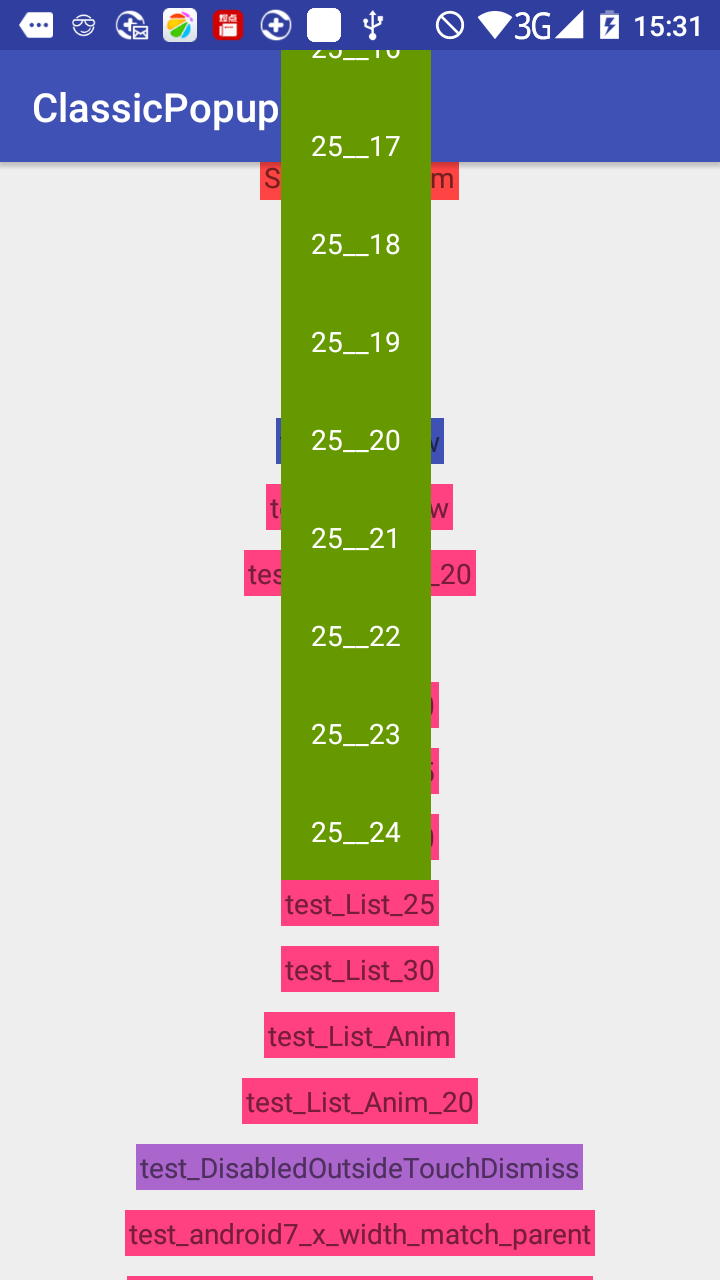
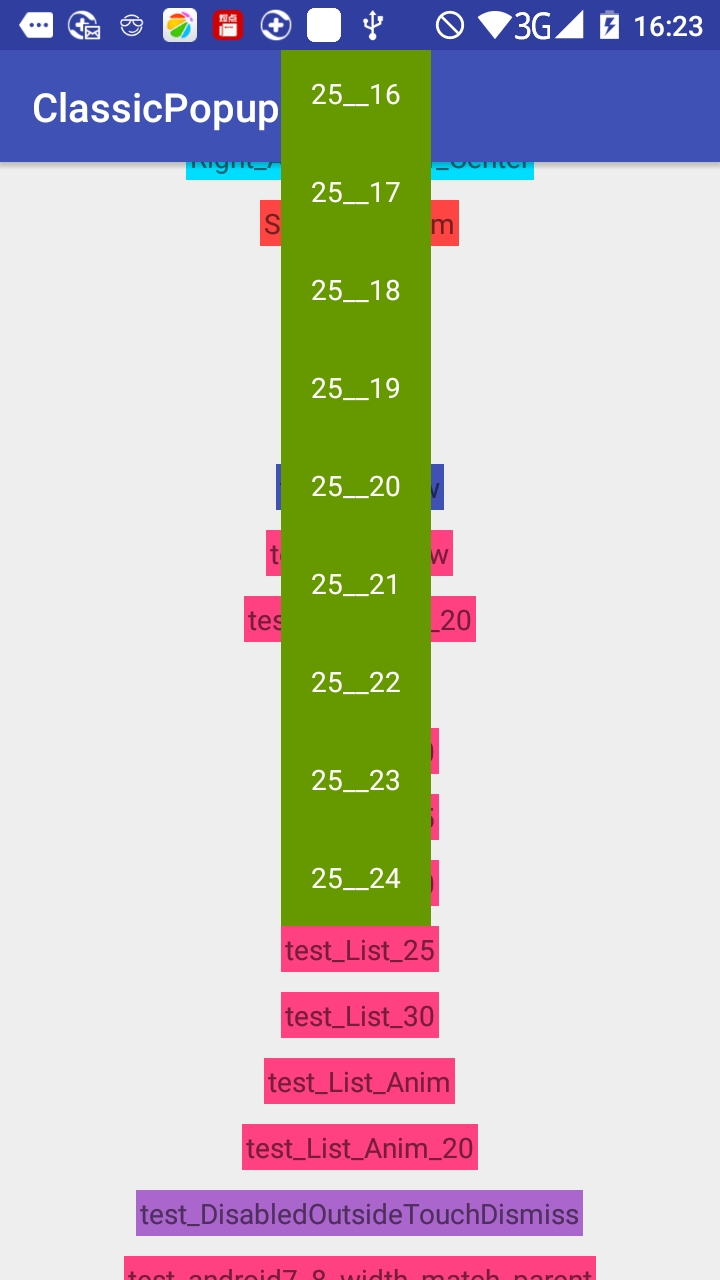
update

diff --git a/app/src/main/java/com/classichu/classicpopupwindow/MainActivity.java b/app/src/main/java/com/classichu/classicpopupwindow/MainActivity.java
@@ -99,19 +99,19 @@ public class MainActivity extends AppCompatActivity {
         TextView id_btn_List_View_Anim_20 = (TextView) findViewById(R.id.id_btn_List_View_Anim_20);
         TextView id_btn_DisabledOutsideTouchDismiss = (TextView) findViewById(R.id.id_btn_DisabledOutsideTouchDismiss);
 
-        TextView id_btn_android7_x_width_match_parent = (TextView) findViewById(R.id.id_btn_android7_x_width_match_parent);
-        TextView id_btn_android7_x_width_wrap_content = (TextView) findViewById(R.id.id_btn_android7_x_width_wrap_content);
-        TextView id_btn_android7_x_width_size = (TextView) findViewById(R.id.id_btn_android7_x_width_size);
-        TextView id_btn_android7_x_height_match_parent = (TextView) findViewById(R.id.id_btn_android7_x_height_match_parent);
-        TextView id_btn_android7_x_height_wrap_content = (TextView) findViewById(R.id.id_btn_android7_x_height_wrap_content);
-        TextView id_btn_android7_x_height_size = (TextView) findViewById(R.id.id_btn_android7_x_height_size);
+        TextView id_btn_android7_8_width_match_parent = (TextView) findViewById(R.id.id_btn_android7_8_width_match_parent);
+        TextView id_btn_android7_8_width_wrap_content = (TextView) findViewById(R.id.id_btn_android7_8_width_wrap_content);
+        TextView id_btn_android7_8_width_size = (TextView) findViewById(R.id.id_btn_android7_8_width_size);
+        TextView id_btn_android7_8_height_match_parent = (TextView) findViewById(R.id.id_btn_android7_8_height_match_parent);
+        TextView id_btn_android7_8_height_wrap_content = (TextView) findViewById(R.id.id_btn_android7_8_height_wrap_content);
+        TextView id_btn_android7_8_height_size = (TextView) findViewById(R.id.id_btn_android7_8_height_size);
 
 
-        TextView id_btn_android7_x_width_wrap_content_center = (TextView) findViewById(R.id.id_btn_android7_x_width_wrap_content_center);
-        TextView id_btn_android7_x_width_size_center = (TextView) findViewById(R.id.id_btn_android7_x_width_size_center);
-        TextView id_btn_android7_x_height_match_parent_center = (TextView) findViewById(R.id.id_btn_android7_x_height_match_parent_center);
-        TextView id_btn_android7_x_height_wrap_content_center = (TextView) findViewById(R.id.id_btn_android7_x_height_wrap_content_center);
-        TextView id_btn_android7_x_height_size_center = (TextView) findViewById(R.id.id_btn_android7_x_height_size_center);
+        TextView id_btn_android7_8_width_wrap_content_center = (TextView) findViewById(R.id.id_btn_android7_8_width_wrap_content_center);
+        TextView id_btn_android7_8_width_size_center = (TextView) findViewById(R.id.id_btn_android7_8_width_size_center);
+        TextView id_btn_android7_8_height_match_parent_center = (TextView) findViewById(R.id.id_btn_android7_8_height_match_parent_center);
+        TextView id_btn_android7_8_height_wrap_content_center = (TextView) findViewById(R.id.id_btn_android7_8_height_wrap_content_center);
+        TextView id_btn_android7_8_height_size_center = (TextView) findViewById(R.id.id_btn_android7_8_height_size_center);
 
         id_btn_Bottom_AnchorLeft_Left.setOnClickListener(new View.OnClickListener() {
             @Override
@@ -582,7 +582,7 @@ public class MainActivity extends AppCompatActivity {
             }
         });
 
-        id_btn_android7_x_width_match_parent.setOnClickListener(new View.OnClickListener() {
+        id_btn_android7_8_width_match_parent.setOnClickListener(new View.OnClickListener() {
             @Override
             public void onClick(View v) {
                 ClassicPopupWindow.Builder builder = new ClassicPopupWindow.Builder(mActivity);
@@ -590,7 +590,7 @@ public class MainActivity extends AppCompatActivity {
             }
         });
 
-        id_btn_android7_x_width_wrap_content.setOnClickListener(new View.OnClickListener() {
+        id_btn_android7_8_width_wrap_content.setOnClickListener(new View.OnClickListener() {
             @Override
             public void onClick(View v) {
                 ClassicPopupWindow.Builder builder = new ClassicPopupWindow.Builder(mActivity);
@@ -598,7 +598,7 @@ public class MainActivity extends AppCompatActivity {
             }
         });
 
-        id_btn_android7_x_width_size.setOnClickListener(new View.OnClickListener() {
+        id_btn_android7_8_width_size.setOnClickListener(new View.OnClickListener() {
             @Override
             public void onClick(View v) {
                 ClassicPopupWindow.Builder builder = new ClassicPopupWindow.Builder(mActivity);
@@ -607,7 +607,7 @@ public class MainActivity extends AppCompatActivity {
         });
 
 
-        id_btn_android7_x_height_match_parent.setOnClickListener(new View.OnClickListener() {
+        id_btn_android7_8_height_match_parent.setOnClickListener(new View.OnClickListener() {
             @Override
             public void onClick(View v) {
                 ClassicPopupWindow.Builder builder = new ClassicPopupWindow.Builder(mActivity);
@@ -615,7 +615,7 @@ public class MainActivity extends AppCompatActivity {
             }
         });
 
-        id_btn_android7_x_height_wrap_content.setOnClickListener(new View.OnClickListener() {
+        id_btn_android7_8_height_wrap_content.setOnClickListener(new View.OnClickListener() {
             @Override
             public void onClick(View v) {
                 ClassicPopupWindow.Builder builder = new ClassicPopupWindow.Builder(mActivity);
@@ -623,18 +623,18 @@ public class MainActivity extends AppCompatActivity {
             }
         });
 
-        id_btn_android7_x_height_size.setOnClickListener(new View.OnClickListener() {
+        id_btn_android7_8_height_size.setOnClickListener(new View.OnClickListener() {
             @Override
             public void onClick(View v) {
                 ClassicPopupWindow.Builder builder = new ClassicPopupWindow.Builder(mActivity);
-                builder.setView(R.layout.content).setHeight(80).build().show(v);
+                builder.setView(R.layout.content).setHeight(200).build().show(v);
             }
         });
 
 //////////////////////////
 
 
-        id_btn_android7_x_width_wrap_content_center.setOnClickListener(new View.OnClickListener() {
+        id_btn_android7_8_width_wrap_content_center.setOnClickListener(new View.OnClickListener() {
             @Override
             public void onClick(View v) {
                 ClassicPopupWindow.Builder builder = new ClassicPopupWindow.Builder(mActivity);
@@ -642,7 +642,7 @@ public class MainActivity extends AppCompatActivity {
             }
         });
 
-        id_btn_android7_x_width_size_center.setOnClickListener(new View.OnClickListener() {
+        id_btn_android7_8_width_size_center.setOnClickListener(new View.OnClickListener() {
             @Override
             public void onClick(View v) {
                 ClassicPopupWindow.Builder builder = new ClassicPopupWindow.Builder(mActivity);
@@ -651,7 +651,7 @@ public class MainActivity extends AppCompatActivity {
         });
 
 
-        id_btn_android7_x_height_match_parent_center.setOnClickListener(new View.OnClickListener() {
+        id_btn_android7_8_height_match_parent_center.setOnClickListener(new View.OnClickListener() {
             @Override
             public void onClick(View v) {
                 ClassicPopupWindow.Builder builder = new ClassicPopupWindow.Builder(mActivity);
@@ -659,7 +659,7 @@ public class MainActivity extends AppCompatActivity {
             }
         });
 
-        id_btn_android7_x_height_wrap_content_center.setOnClickListener(new View.OnClickListener() {
+        id_btn_android7_8_height_wrap_content_center.setOnClickListener(new View.OnClickListener() {
             @Override
             public void onClick(View v) {
                 ClassicPopupWindow.Builder builder = new ClassicPopupWindow.Builder(mActivity);
@@ -667,11 +667,11 @@ public class MainActivity extends AppCompatActivity {
             }
         });
 
-        id_btn_android7_x_height_size_center.setOnClickListener(new View.OnClickListener() {
+        id_btn_android7_8_height_size_center.setOnClickListener(new View.OnClickListener() {
             @Override
             public void onClick(View v) {
                 ClassicPopupWindow.Builder builder = new ClassicPopupWindow.Builder(mActivity);
-                builder.setView(R.layout.content).setHeight(80).build().showCenter(v);
+                builder.setView(R.layout.content).setHeight(200).build().showCenter(v);
             }
         });
     }
